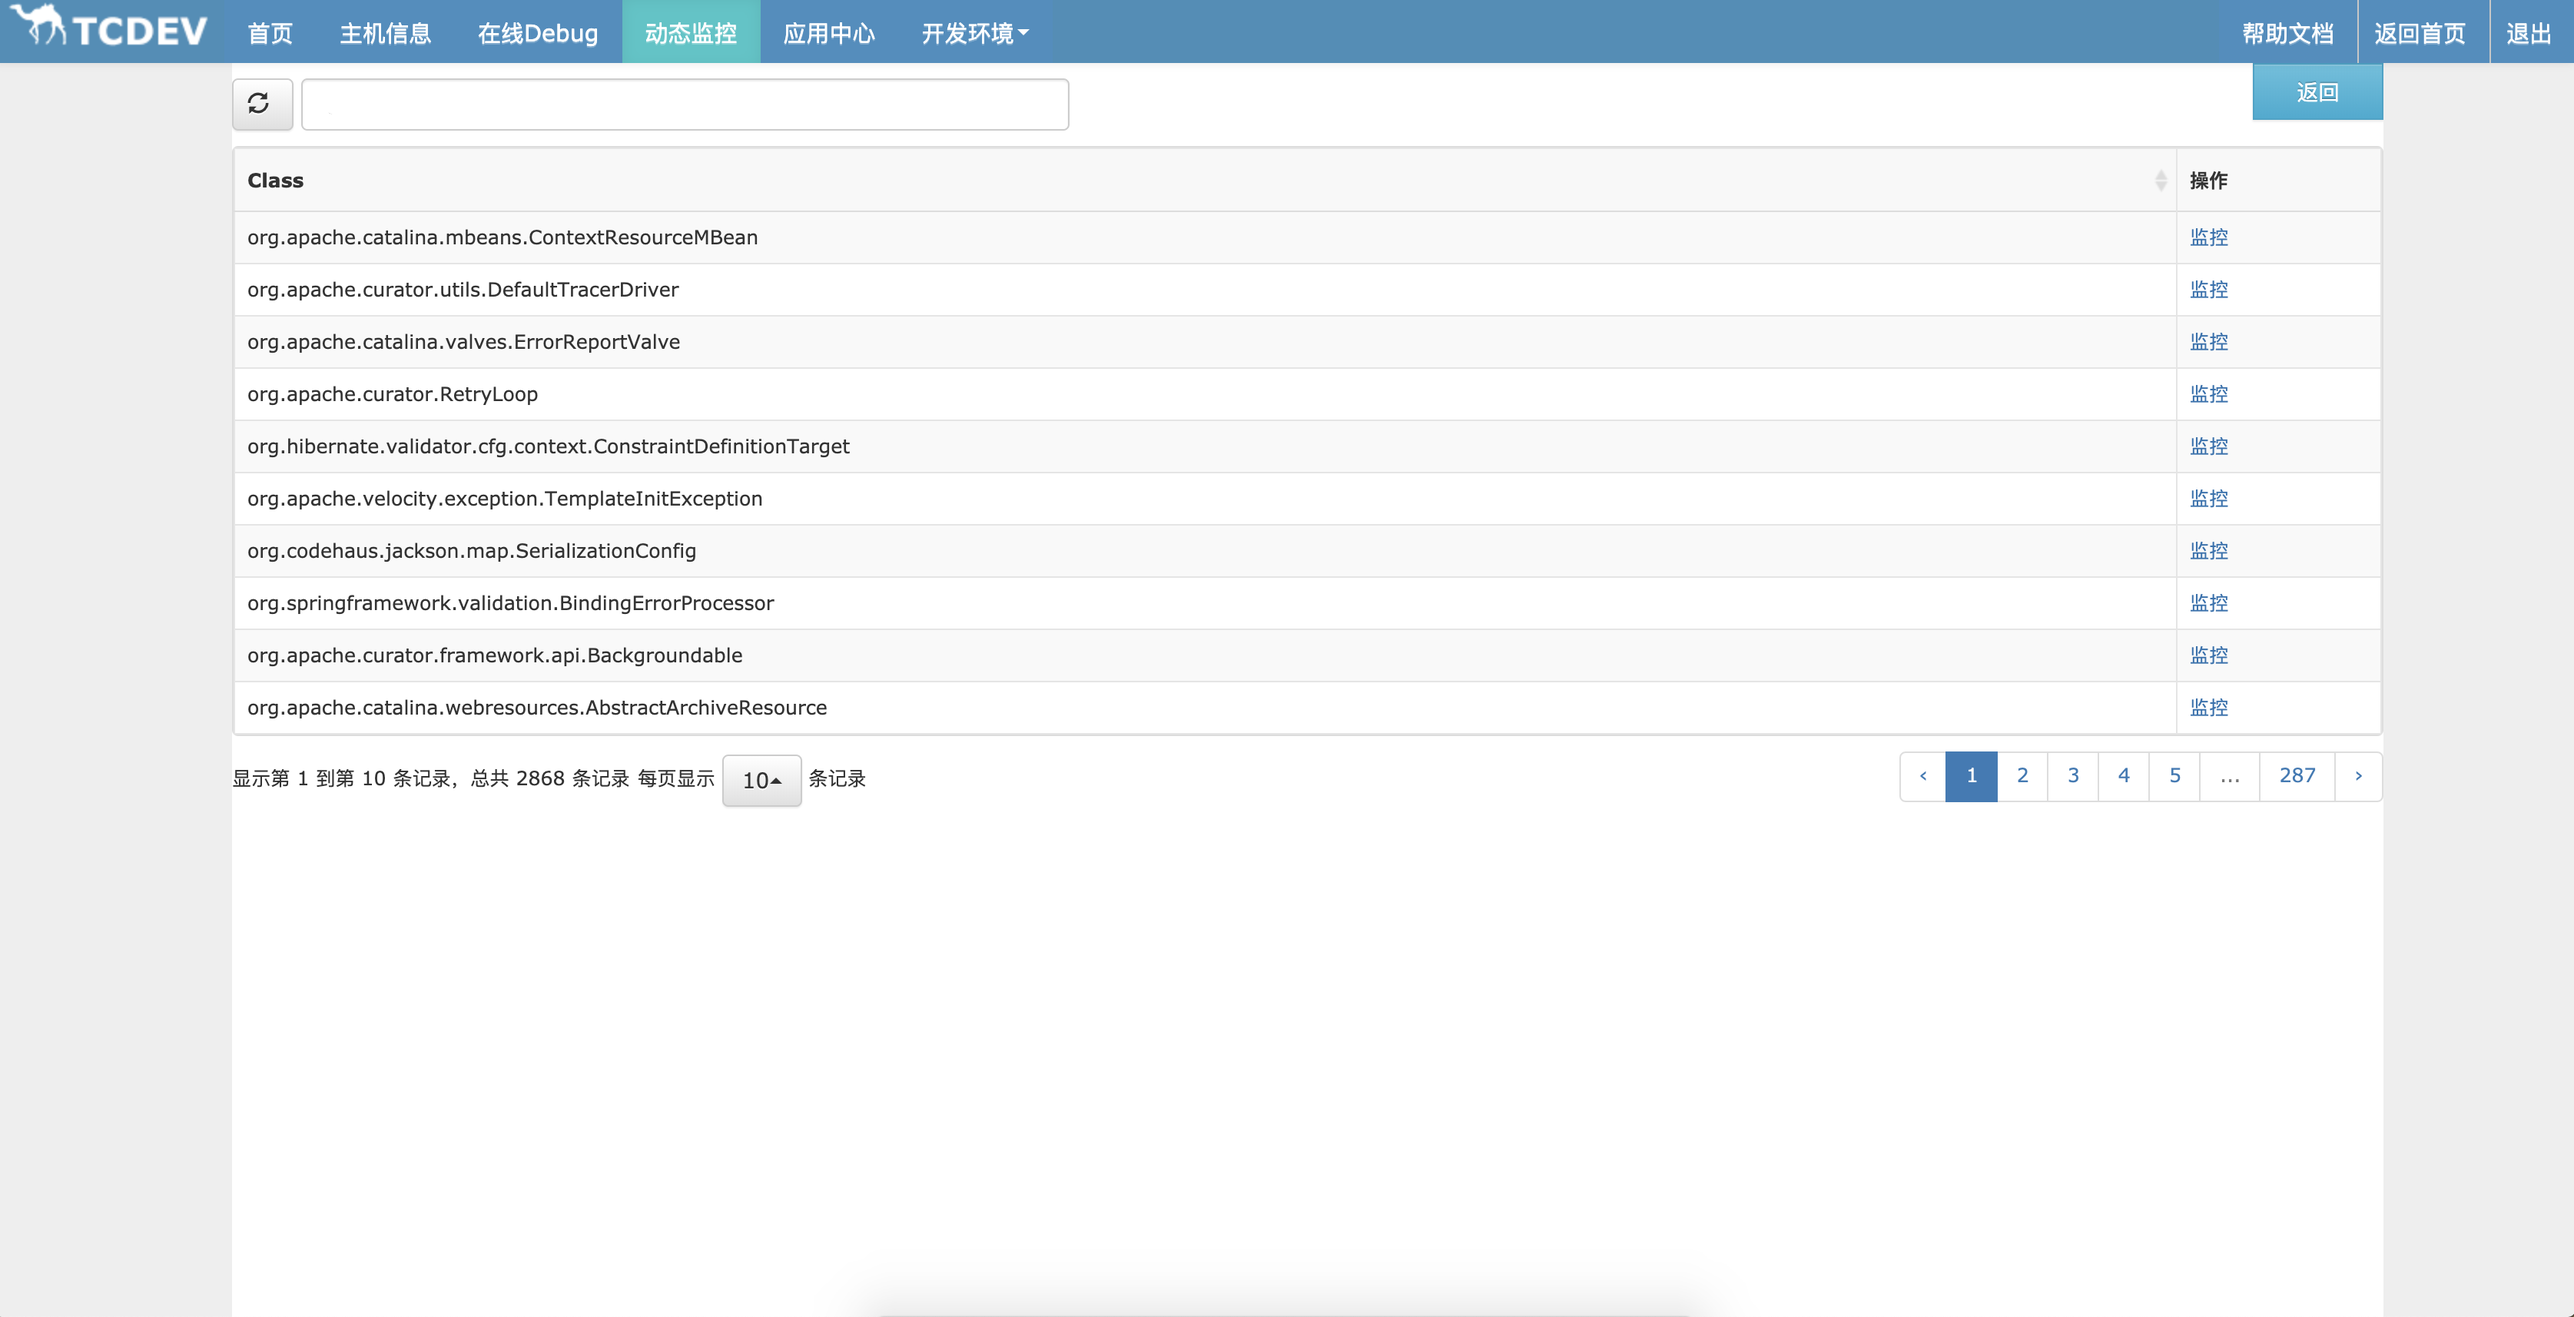
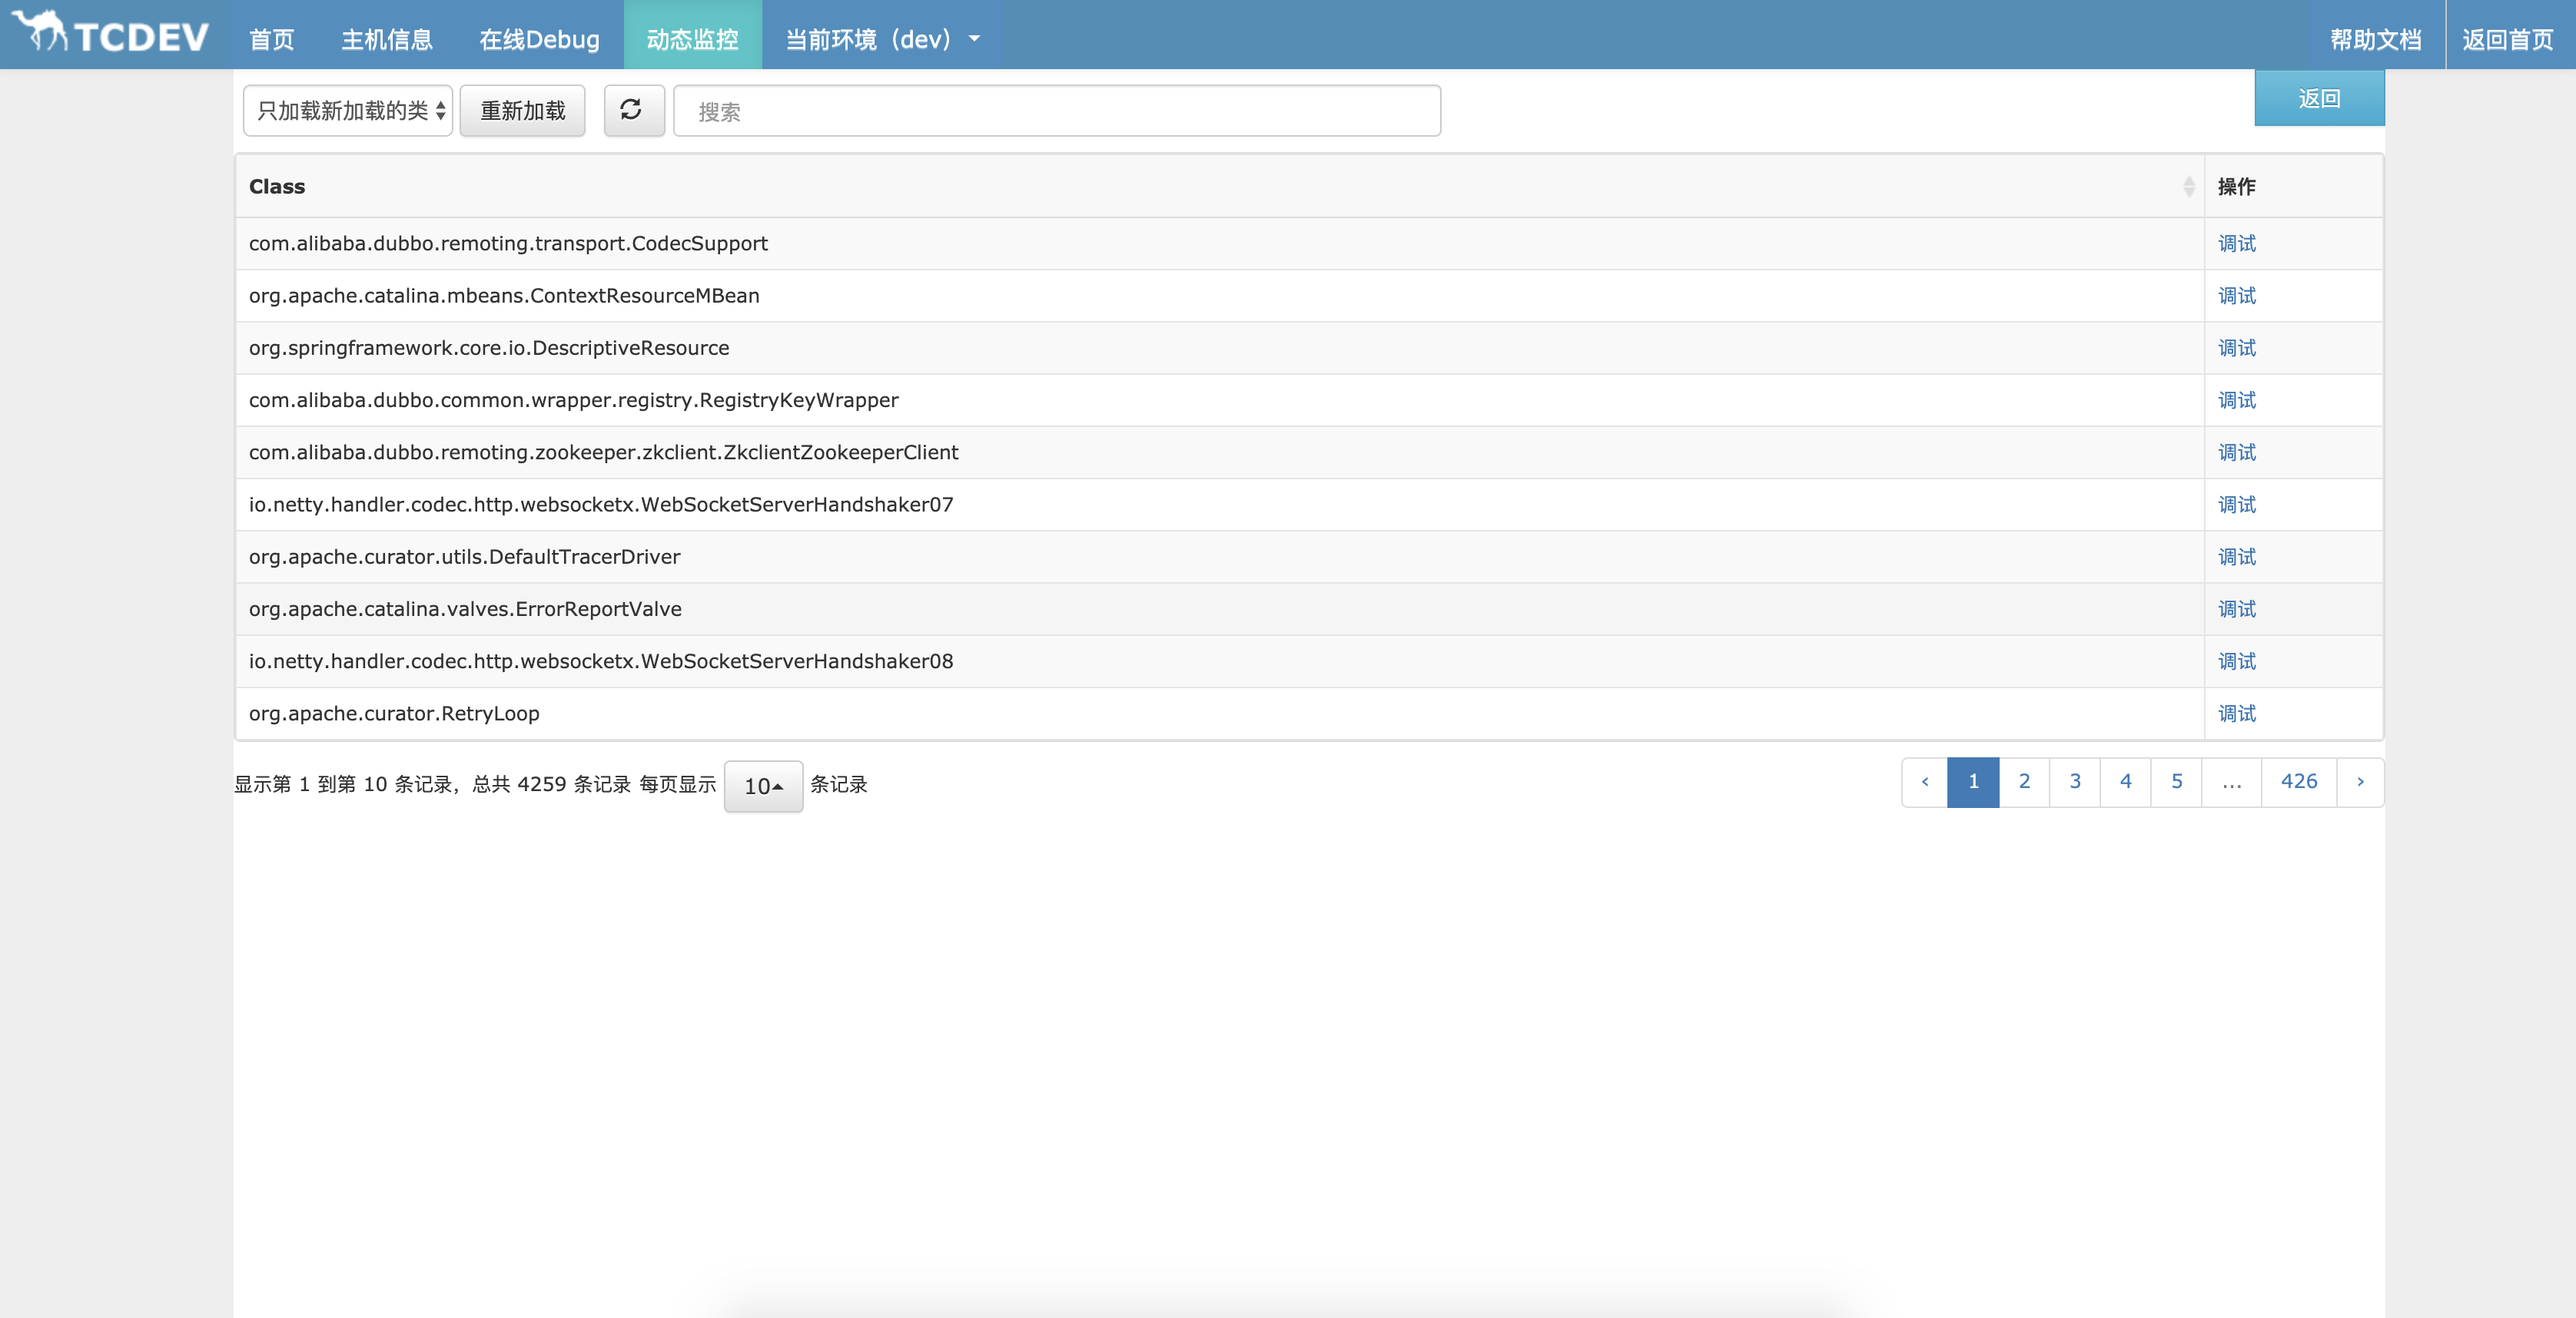
在线debug、动态监控已加载类列表添加重新加载功能

Changed region(s): [[0.0, 0.0, 1.0, 0.4638], [0.0931, 0.4947, 0.9313, 0.6184], [0.8382, 0.2165, 0.8693, 0.4638]]

diff --git a/bistoury-ui/src/main/webapp/js/monitor.js b/bistoury-ui/src/main/webapp/js/monitor.js
@@ -47,6 +47,11 @@ $(document).ready(function () {
         // send(currentHost, 41, command);
     }
 
+    function relaodClasses() {
+        var command = "jardebug -r " + $("#reload-params").val();
+        bistouryWS.sendCommand(currentHost, 9, command, stop, handleResult);
+    }
+
     function getAllClass() {
         var command = "jardebug";
         bistouryWS.sendCommand(currentHost, 9, command, stop, handleResult);
@@ -851,6 +856,11 @@ $(document).ready(function () {
         $("#jar-debug-panel").show();
     })
 
+    $("#classes-reload").click(function () {
+        $('#jar-debug-table').bootstrapTable('removeAll');
+        relaodClasses();
+    })
+
     $("#add-monitor").click(function () {
         if ($("#add-monitor").attr("disabled") == "disabled") {
             return;
@@ -1037,6 +1047,7 @@ $(document).ready(function () {
             pageList: [10, 20, 50, 100],//可选择单页记录数
             showRefresh: true,//刷新按钮
             search: true,
+            toolbar: "#toolbar",
             searchAlign: "left",
             buttonsAlign: "left",
             columns: [{

diff --git a/bistoury-ui/src/main/webapp/js/debug.js b/bistoury-ui/src/main/webapp/js/debug.js
@@ -26,6 +26,11 @@ $(document).ready(function () {
     }, interval);
 
 
+    function relaodClasses() {
+        var command = "jardebug -r " + $("#reload-params").val();
+        bistouryWS.sendCommand(currentHost, 9, command, stop, handleResult);
+    }
+
     function getAllClass() {
         var command = "jardebug";
         bistouryWS.sendCommand(currentHost, 9, command, stop, handleResult);
@@ -692,6 +697,11 @@ $(document).ready(function () {
         $("#jar-debug-panel").show();
     })
 
+    $("#classes-reload").click(function () {
+        $('#jar-debug-table').bootstrapTable('removeAll');
+        relaodClasses();
+    })
+
     $("#add-breakpoint").click(function () {
         if ($("#add-breakpoint").attr("disabled") == "disabled") {
             return;
@@ -844,6 +854,7 @@ $(document).ready(function () {
             pageList: [10, 20, 50, 100],//可选择单页记录数
             showRefresh: true,//刷新按钮
             search: true,
+            toolbar: "#toolbar",
             searchAlign: "left",
             buttonsAlign: "left",
             columns: [{

diff --git a/bistoury-ui/src/main/webapp/debug.html b/bistoury-ui/src/main/webapp/debug.html
@@ -82,6 +82,17 @@
                 <div class="back-app-host-panel">
                     <button class="btn btn-info" style="border-radius: 0px;width: 85px;float: right;height: 37px;">返回</button>
                 </div>
+                <div id="toolbar" style="margin-right: 12px;">
+                    <form class="form-inline">
+                        <div class="form-group">
+                            <select class="form-control" id="reload-params">
+                                <option value="new">只加载新加载的类</option>
+                                <option value="all">全部重新加载</option>
+                            </select>
+                        </div>
+                        <button type="button" id="classes-reload" class="btn btn-default">重新加载</button>
+                    </form>
+                </div>
                 <table id="jar-debug-table" class="table table-hover"></table>
             </div>
             <!--<div id="file-tree-panel" class="col-md-12" style="display: none">

diff --git a/bistoury-ui/src/main/webapp/monitor.html b/bistoury-ui/src/main/webapp/monitor.html
@@ -89,6 +89,17 @@
                 <div class="back-app-host-panel">
                     <button class="btn btn-info" style="border-radius: 0px;width: 85px;float: right;height: 37px;">返回</button>
                 </div>
+                <div id="toolbar" style="margin-right: 12px;">
+                    <form class="form-inline">
+                        <div class="form-group">
+                            <select class="form-control" id="reload-params">
+                                <option value="new">只加载新加载的类</option>
+                                <option value="all">全部重新加载</option>
+                            </select>
+                        </div>
+                        <button type="button" id="classes-reload" class="btn btn-default">重新加载</button>
+                    </form>
+                </div>
                 <table id="jar-debug-table" class="table table-hover"></table>
             </div>
             <!--<div id="file-tree-panel" class="col-md-12" style="display: none">

diff --git a/bistoury-attach-arthas/src/main/java/qunar/tc/bistoury/attach/arthas/debug/JarDebugClient.java b/bistoury-attach-arthas/src/main/java/qunar/tc/bistoury/attach/arthas/debug/JarDebugClient.java
@@ -51,12 +51,15 @@ public class JarDebugClient implements InstrumentClient {
 
     private static final String FILE_PROTOCOL = "file:";
 
-    private final Map<String, ClassInfo> class_classInfo;
+    private Map<String, ClassInfo> class_classInfo = Maps.newHashMap();
+
+    private InstrumentInfo instrumentInfo;
 
     JarDebugClient(InstrumentInfo instrumentInfo) {
+        this.instrumentInfo = instrumentInfo;
         logger.info("start init jar debugg client");
         try {
-            class_classInfo = initAllClassInfo(instrumentInfo);
+            class_classInfo = initAllClassInfo(instrumentInfo, true);
             logger.info("success init jar decompiler client");
         } catch (Exception e) {
             destroy();
@@ -65,9 +68,14 @@ public class JarDebugClient implements InstrumentClient {
         }
     }
 
-    private Map<String, ClassInfo> initAllClassInfo(InstrumentInfo instrumentInfo) {
+    private Map<String, ClassInfo> initAllClassInfo(InstrumentInfo instrumentInfo, boolean isLoadAll) {
         Class[] loadedClasses = instrumentInfo.getInstrumentation().getAllLoadedClasses();
-        Map<String, ClassInfo> classInfoMap = Maps.newHashMap();
+        Map<String, ClassInfo> classInfoMap;
+        if (isLoadAll) {
+            classInfoMap = Maps.newHashMap();
+        } else {
+            classInfoMap = Maps.newHashMap(class_classInfo);
+        }
         Map<String, JarFile> jarFileMap = new HashMap<>();
         Map<String, Optional<Properties>> mavenInfoMap = new HashMap<>();
         try {
@@ -76,6 +84,11 @@ public class JarDebugClient implements InstrumentClient {
                 if (Strings.isNullOrEmpty(clazzName) || clazzName.startsWith("[") || clazzName.indexOf("$") >= 0) {
                     continue;
                 }
+
+                if (!isLoadAll && classInfoMap.containsKey(clazzName)) {
+                    continue;
+                }
+
                 final ClassLoader classLoader = clazz.getClassLoader();
                 if (classLoader == null || InstrumentInfo.IGNORE_CLASS.contains(classLoader.getClass().getName())) {
                     continue;
@@ -100,6 +113,33 @@ public class JarDebugClient implements InstrumentClient {
     public Set<String> getAllClass() {
         return ImmutableSet.copyOf(class_classInfo.keySet());
     }
+
+    /**
+     * 所有类全部重新加载
+     *
+     * @return
+     */
+    public boolean reloadAllClass() {
+        logger.info("begin reload all class");
+        Map<String, ClassInfo> tmpClassInfo = initAllClassInfo(instrumentInfo, true);
+        class_classInfo = tmpClassInfo;
+        logger.info("end reload all class");
+        return true;
+    }
+
+    /**
+     * 只加载没有加载的类
+     *
+     * @return
+     */
+    public boolean reLoadNewClass() {
+        logger.info("begin reload new class");
+        Map<String, ClassInfo> tmpClassInfo = initAllClassInfo(instrumentInfo, false);
+        class_classInfo = tmpClassInfo;
+        logger.info("end reload new class");
+        return true;
+    }
+
 
     public ClassInfo getClassPath(final String className) {
         return class_classInfo.get(className);

diff --git a/bistoury-attach-arthas/src/main/java/qunar/tc/bistoury/attach/arthas/debug/JarDebugCommand.java b/bistoury-attach-arthas/src/main/java/qunar/tc/bistoury/attach/arthas/debug/JarDebugCommand.java
@@ -17,9 +17,11 @@
 
 package qunar.tc.bistoury.attach.arthas.debug;
 
+import com.google.common.base.Strings;
 import com.taobao.arthas.core.shell.command.AnnotatedCommand;
 import com.taobao.arthas.core.shell.command.CommandProcess;
 import com.taobao.middleware.cli.annotations.Name;
+import com.taobao.middleware.cli.annotations.Option;
 import com.taobao.middleware.logger.Logger;
 import qunar.tc.bistoury.attach.common.BistouryLoggger;
 import qunar.tc.bistoury.common.*;
@@ -35,15 +37,31 @@ import java.util.Set;
 public class JarDebugCommand extends AnnotatedCommand {
     private static final Logger logger = BistouryLoggger.getLogger();
 
+    private static final String RELOAD_ALL = "all";
+    private String reload;
+
+    @Option(shortName = "r", longName = "reload")
+    public void setReload(String reload) {
+        this.reload = reload;
+    }
+
     @Override
     public void process(CommandProcess process) {
-        logger.info("receive jar debug command");
+        logger.info("", "receive jar debug command, reload: {}", reload);
         CodeProcessResponse<Set<String>> codeResponse = new CodeProcessResponse<>();
         TypeResponse<Set<String>> typeResponse = new TypeResponse<>();
         typeResponse.setType(BistouryConstants.REQ_JAR_DEBUG);
         typeResponse.setData(codeResponse);
         try {
             JarDebugClient client = JarDebugClients.getInstance();
+
+            if (!Strings.isNullOrEmpty(reload)) {
+                boolean success = reloadClasses(client);
+                if (success) {
+                    logger.info("", "reload class success, reload: {}", reload);
+                }
+            }
+
             Set<String> classPaths = client.getAllClass();
             codeResponse.setCode(0);
             codeResponse.setData(classPaths);
@@ -54,6 +72,19 @@ public class JarDebugCommand extends AnnotatedCommand {
         } finally {
             process.write(URLCoder.encode(JacksonSerializer.serialize(typeResponse)));
             process.end();
+        }
+    }
+
+    private boolean reloadClasses(JarDebugClient client) {
+        try {
+            if (RELOAD_ALL.equalsIgnoreCase(reload)) {
+                return client.reloadAllClass();
+            } else {
+                return client.reLoadNewClass();
+            }
+        } catch (Throwable t) {
+            logger.error("", "reload classes error", t);
+            return false;
         }
     }
 }

diff --git a/docs/cn/monitor.md b/docs/cn/monitor.md
@@ -13,11 +13,16 @@
 
 - 进入动态监控页面，初次使用时请先点击下方链接设置gitlab private token，若不设置，则添加断点时的代码将会通过反编译产生。目前仅支持gitlab，点击输入框下方对应链接获取，然后点击保存设置private token。
 ![private token](../image/private_token.png)
-- 选择需要添加监控的应用名，再选择需要在哪台机器上添加监控，然后点击【选择】按钮。
+- 选择需要添加监控的应用名，再选择需要在哪台机器上添加监控，然后点击【选择】按钮，进入已加载类列表  
 ![monitor_entry](../image/monitor_entry.png)
-- 进入已加载类列表。
+- 找到需要添加的类（支持搜索），点击【监控】按钮进入监控页面。类列表是在attach时获取的应用已加载的类。
+
+    如果在attach之后有新的类加载（有时在列表中找不到自己想要的类，可能就是你要的类是在attach之后再加载的），可以通过点击【重新加载】加载按钮对列表进行重新加载。刷新按钮只会重新请求列表，不会重新加载。
+
+    选择“只加载新加载的类”只会加载应用中新加载的类；
+
+    选择“全部加载”会把整个列表重新加载一遍。
 ![monitor_class_list](../image/monitor_class_list.png)
-- 找到需要添加监控的类（注：仅支持Java代码添加监控），点击进入监控页面。
 - 找到需要添加监控的方法，在其中任意语句添加标记，点击前方的行号标记所在行。
 ![monitor_panel](../image/monitor_panel.png)
 - 在监控首页可以选择应用及机器后可以查看监控数据

diff --git a/docs/cn/debug.md b/docs/cn/debug.md
@@ -32,7 +32,13 @@ Arthas的watch命令让我们可以观察函数的入参、返回值、异常等
 
 - 选择需要调试的应用名，再选择需要调试的机器，然后点击【debug】按钮，进入已加载类列表。
 ![debug](../image/debug-main.png)
-- 找到需要调试的类（支持搜索），点击【调试】按钮进入调试页面
+- 找到需要调试的类（支持搜索），点击【调试】按钮进入调试页面。类列表是在attach时获取的应用已加载的类。
+
+    如果在attach之后有新的类加载（有时在列表中找不到自己想要的类，可能就是你要的类是在attach之后再加载的），可以通过点击【重新加载】加载按钮对列表进行重新加载。刷新按钮只会重新请求列表，不会重新加载
+
+    选择“只加载新加载的类”只会加载应用中新加载的类；
+
+    选择“全部加载”会把整个列表重新加载一遍。
 ![debug class list](../image/debug_class_list.png)
 
 - 找到需要调试的那行代码，点击前方的行号标记设置断点
